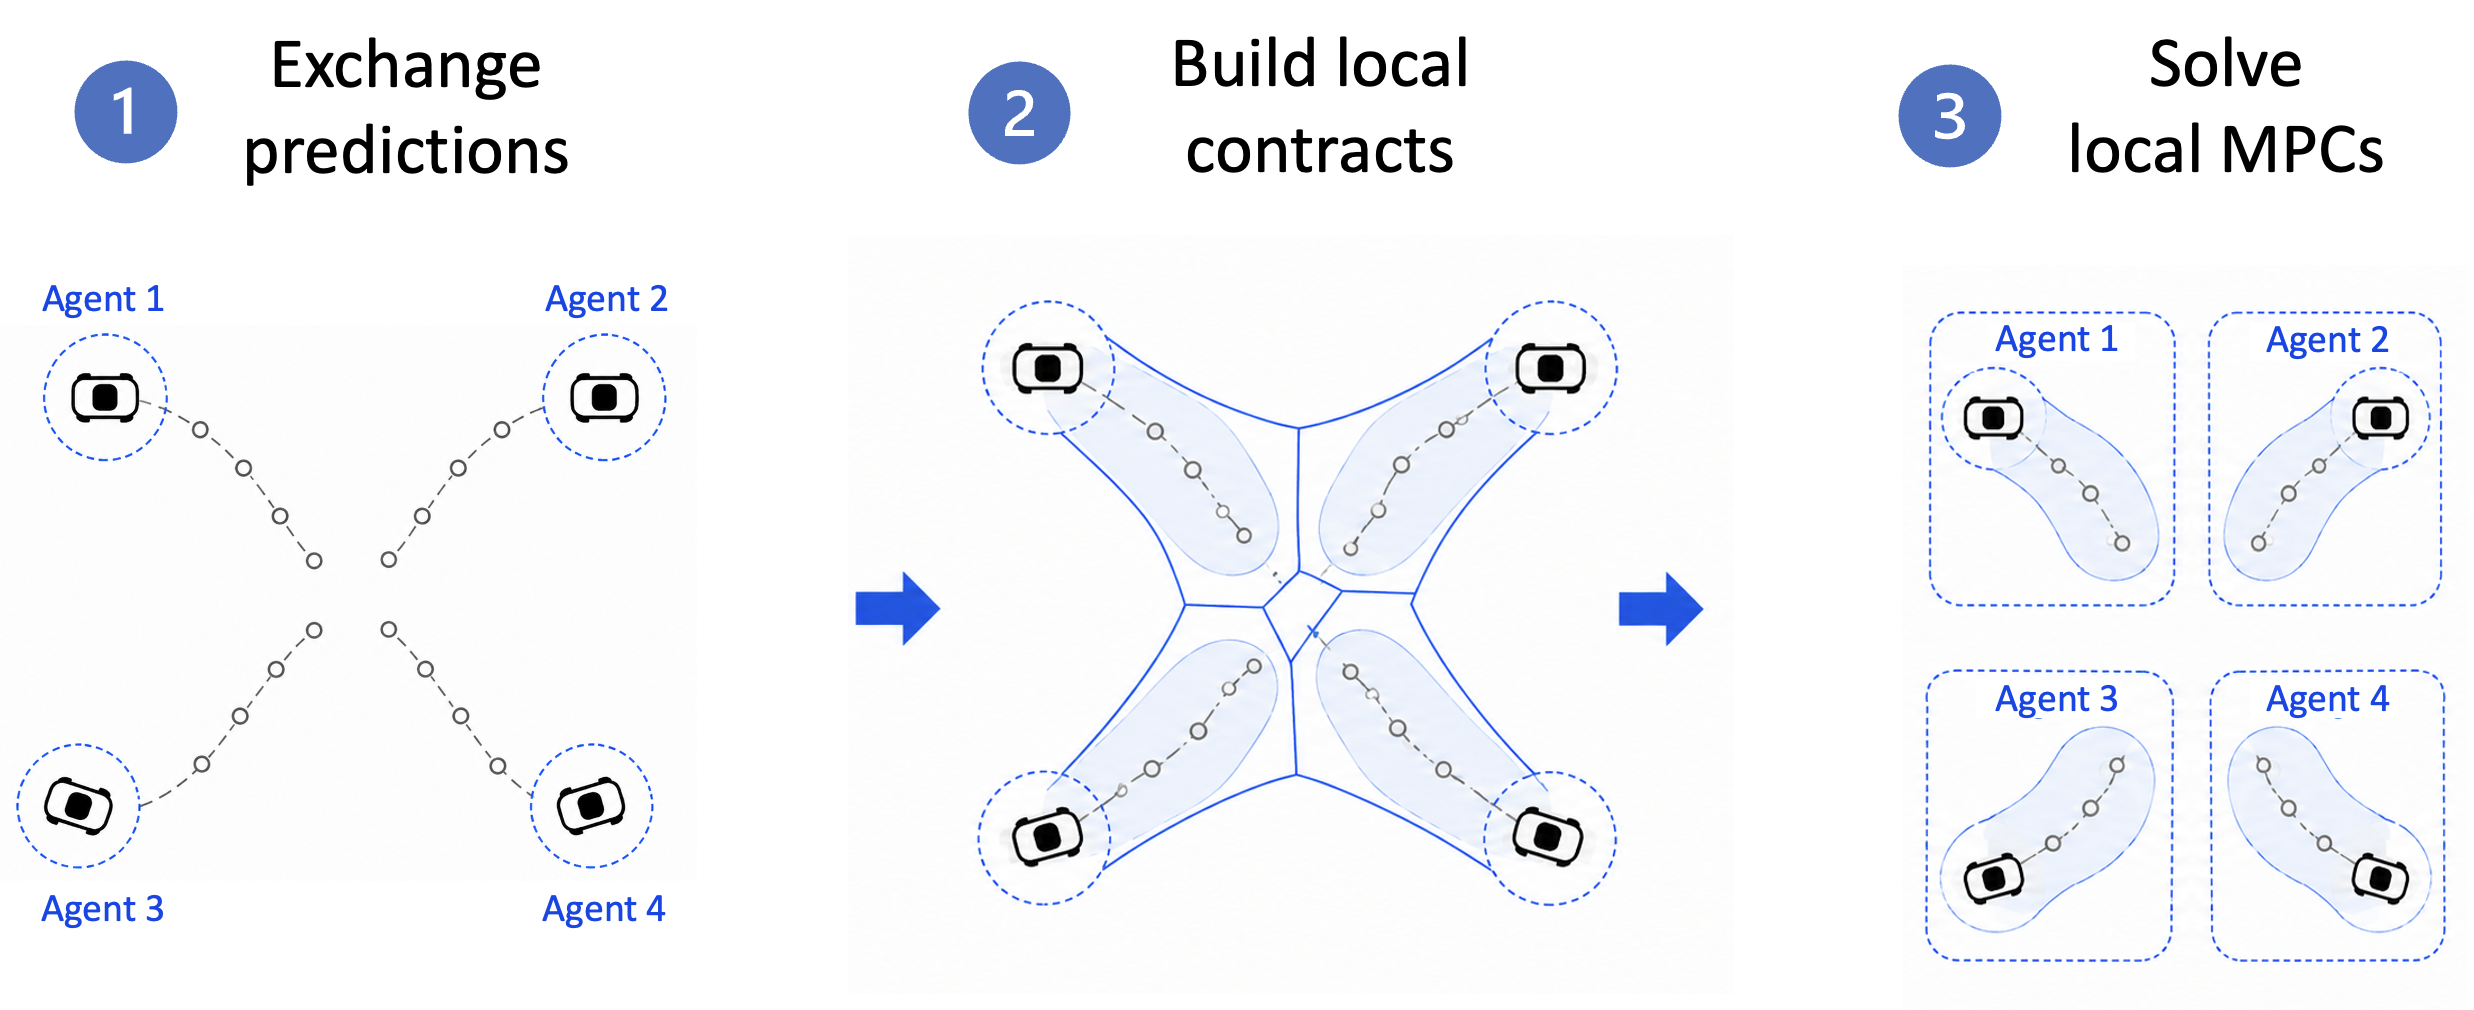
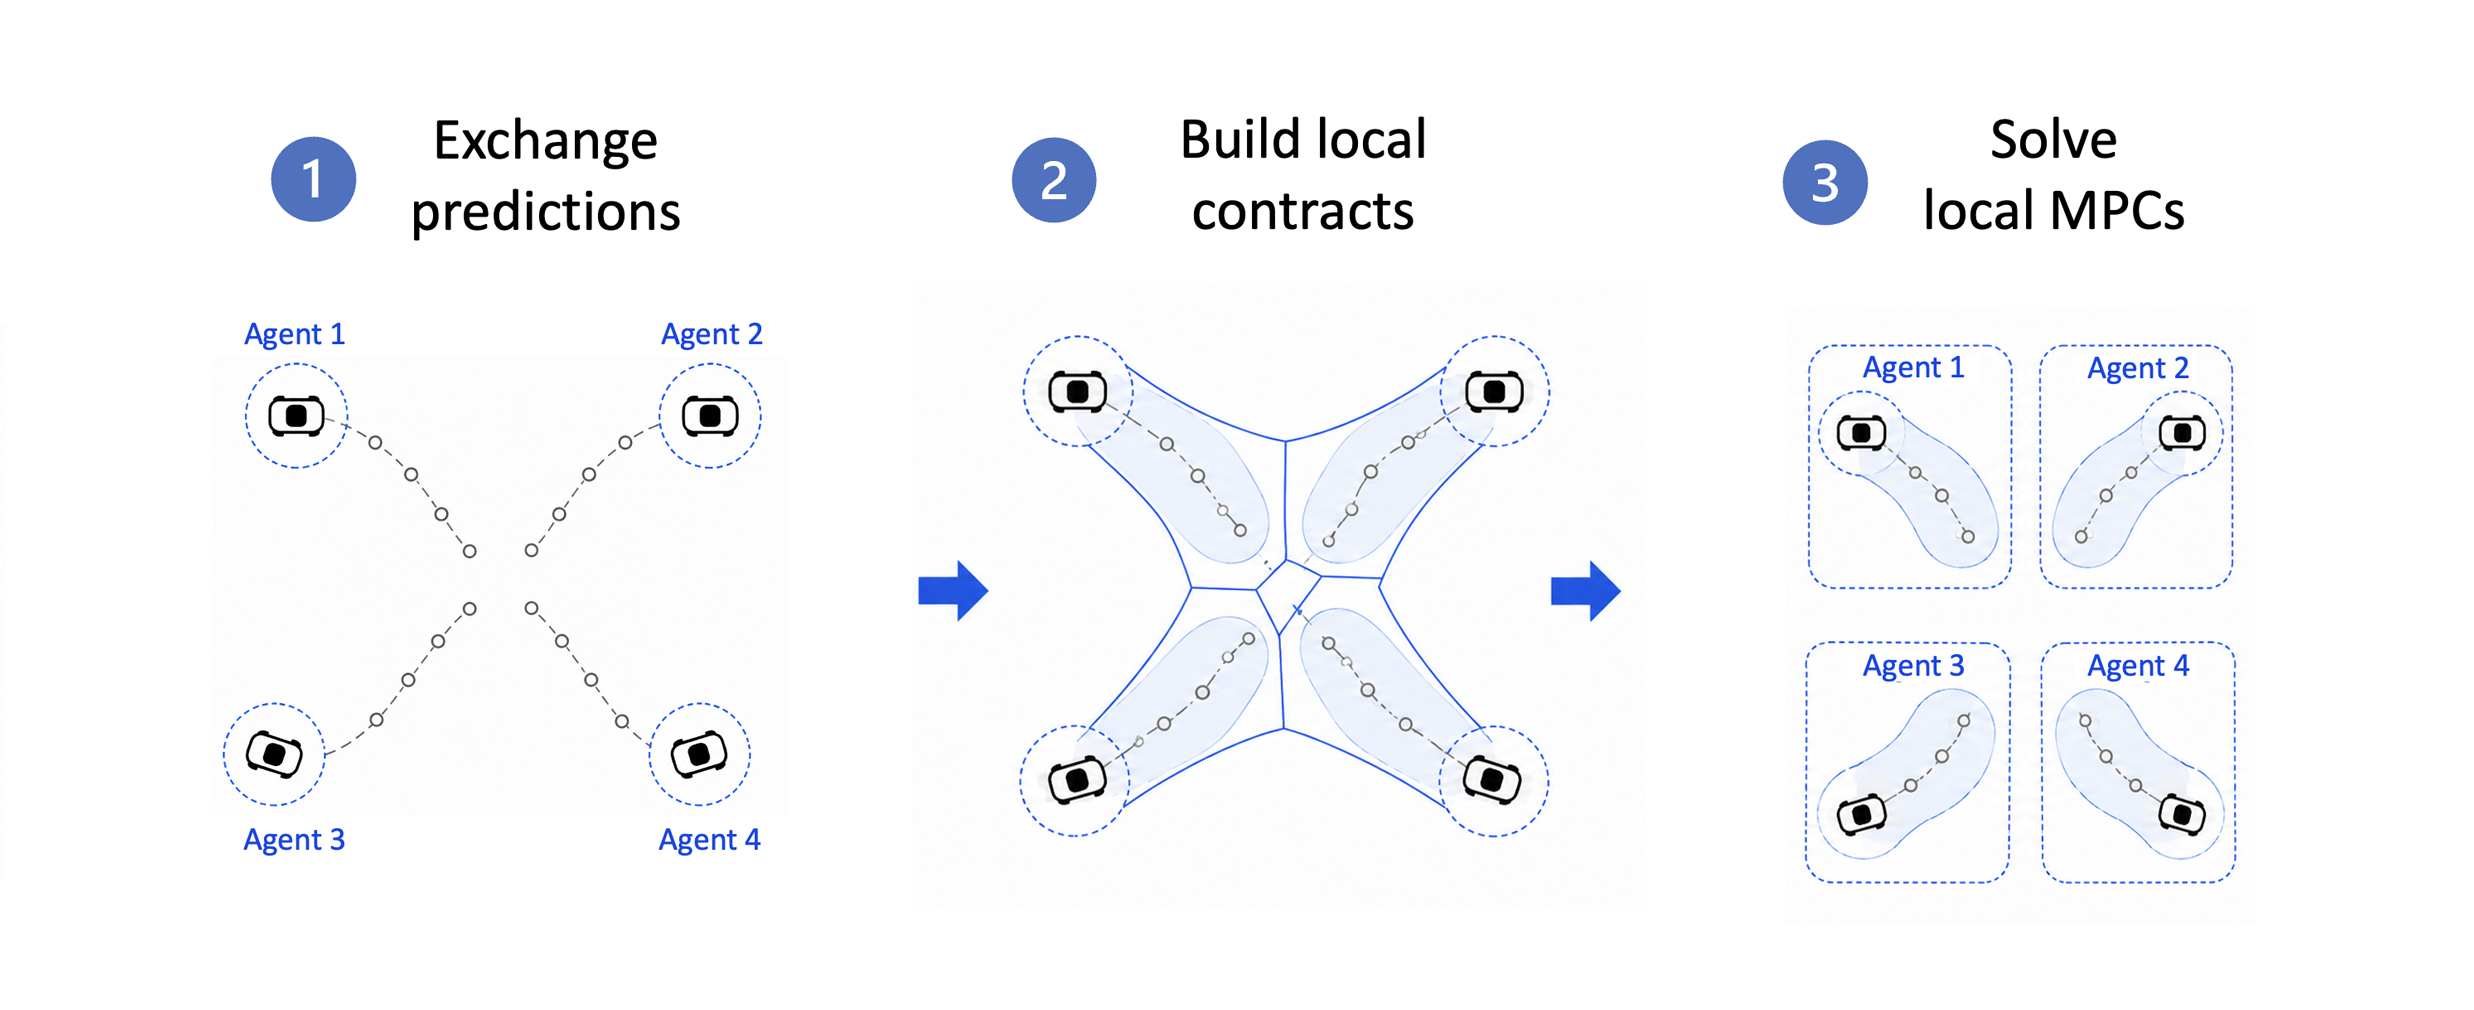
updated picture

diff --git a/research.html b/research.html
@@ -157,17 +157,17 @@
               <figure class="research-figure" data-image-shell>
                 <img src="assets/img/research/neural-architecture.jpg" alt="Figure placeholder for neural controller architectures" loading="lazy" data-fallback-image>
                 <div class="research-figure-placeholder" aria-hidden="true"><span>Figure 1</span></div>
-                <figcaption>Controller architecture</figcaption>
+                <figcaption>Neural Networks in the loop</figcaption>
               </figure>
               <figure class="research-figure" data-image-shell>
-                <img src="assets/img/research/neural-stability.jpg" alt="Figure placeholder for stability certificates" loading="lazy" data-fallback-image>
+                <img src="assets/img/research/distributed.gif" alt="Figure placeholder for stability certificates" loading="lazy" data-fallback-image>
                 <div class="research-figure-placeholder" aria-hidden="true"><span>Figure 2</span></div>
-                <figcaption>Stability certificates</figcaption>
+                <figcaption>Distributed neural controllers for multi-agent systems with stability guarantees</figcaption>
               </figure>
               <figure class="research-figure" data-image-shell>
-                <img src="assets/img/research/neural-adaptation.jpg" alt="Figure placeholder for online neural controller adaptation" loading="lazy" data-fallback-image>
+                <img src="assets/img/research/online.gif" alt="Figure placeholder for online neural controller adaptation" loading="lazy" data-fallback-image>
                 <div class="research-figure-placeholder" aria-hidden="true"><span>Figure 3</span></div>
-                <figcaption>Online adaptation</figcaption>
+                <figcaption>Stable online adaptation of neural controllers in changing environments</figcaption>
               </figure>
             </div>
             <a class="text-link" href="publications.html">Related publications</a>